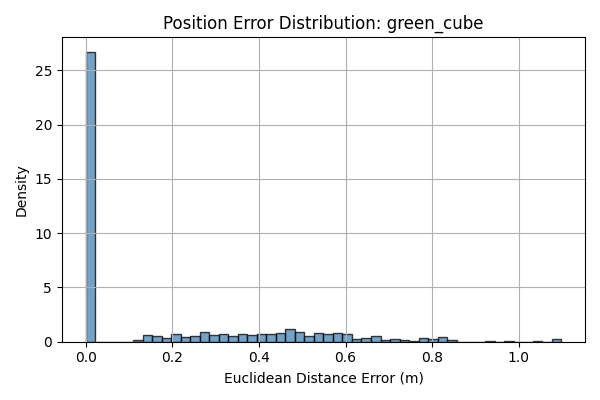
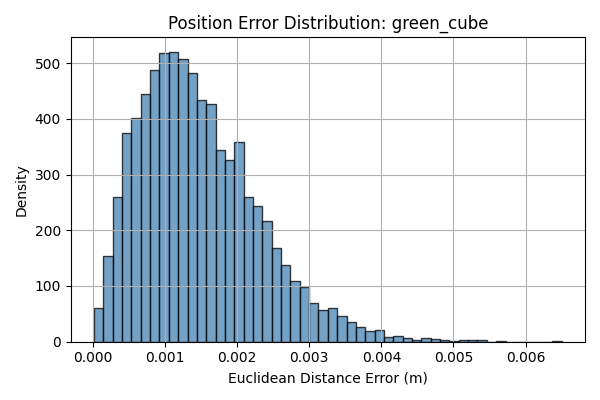
feat: hangarian algorithm in perception evaluation

diff --git a/myCode/yolo_perception/scripts/evaluation.py b/myCode/yolo_perception/scripts/evaluation.py
@@ -11,9 +11,9 @@ pred_dir = Path("/home/s2644572/robosuite/myCode/yolo_perception/data/tabletop/t
 plots_save_path = Path("/home/s2644572/robosuite/myCode/yolo_perception/plots/")
 os.makedirs(plots_save_path, exist_ok=True)
 
-threshold = 0.00125  # meters
+threshold = 0.0025  # meters - the distance threshold for position accuracy
 table_size_m = 0.8  # meters
-norm_threshold = threshold / table_size_m  # normalize threshold
+norm_threshold = threshold / table_size_m  # normalize threshold as the pred and gt are normalized by table size
 print("threshold in meters:", threshold)
 print(f"Normalized threshold: {norm_threshold:.6f} over table size {table_size_m}m")
 
@@ -35,9 +35,9 @@ class_names = [
     "blue_cylinder",
 ]
 
-if_break = False  # Set to True to stop on first misclassification
-
-for ref_file in tqdm(ref_dir.glob("*.txt"), desc="Evaluating predictions"):
+mismatch_files = []
+ref_txt_files = list(ref_dir.glob("*.txt"))
+for ref_file in tqdm(ref_txt_files, desc="Evaluating predictions"):
     pred_file = pred_dir / ref_file.name
     if not pred_file.exists():
         print(f"Missing prediction: {pred_file.name}")
@@ -46,7 +46,20 @@ for ref_file in tqdm(ref_dir.glob("*.txt"), desc="Evaluating predictions"):
     with open(ref_file) as f1, open(pred_file) as f2:
         ref_lines = [line.strip().split() for line in f1.readlines()]
         pred_lines = [line.strip().split() for line in f2.readlines()]
+    
+    # Extract (x, y) positions only
+    ref_xy = np.array([[float(x), float(y)] for _, x, y, _, _ in ref_lines])
+    pred_xy = np.array([[float(x), float(y)] for _, x, y, _, _ in pred_lines])
+    # Compute pairwise Euclidean distances
+    dists = np.linalg.norm(ref_xy[:, None, :] - pred_xy[None, :, :], axis=2)
 
+    # Hungarian algorithm to find best match
+    row_ind, col_ind = linear_sum_assignment(dists)
+
+    # Reorder ref_lines and pred_lines based on Hungarian matching
+    ref_lines = [ref_lines[i] for i in row_ind]
+    pred_lines = [pred_lines[j] for j in col_ind]
+    
     for r_line, p_line in zip(ref_lines, pred_lines):
         class_r, x_r, y_r = int(r_line[0]), float(r_line[1]), float(r_line[2])
         class_p, x_p, y_p = int(p_line[0]), float(p_line[1]), float(p_line[2])
@@ -60,12 +73,13 @@ for ref_file in tqdm(ref_dir.glob("*.txt"), desc="Evaluating predictions"):
             correct_position_pred_per_class[class_r] += dist <= norm_threshold
             position_errors_per_class[class_r].append(dist)
         else:
-            print(f"Misclassification: {ref_file.name} | GT: {class_names[class_r]} | Pred: {class_names[class_p]}")
-            if_break = True
-        if if_break:
-            break
-    if if_break:
-        break
+            mismatch_files.append({
+                "file": ref_file.name,
+                "gt_class": class_names[class_r],
+                "pred_class": class_names[class_p]
+            })
+
+print(f"Processed {len(mismatch_files)} mismatches out of {len(ref_txt_files)} files.")
 # ==== Final Report ====
 print("\n📊 Class-wise Evaluation Report:")
 for i in range(num_classes):
@@ -86,8 +100,8 @@ for i in range(num_classes):
 print("\n📈 Plotting Position Error Distributions:")
 use_density = True  # Set to False if you want raw counts
 for i in range(num_classes):
-    errors = position_errors_per_class[i]
-    if not errors:
+    errors = np.array(position_errors_per_class[i])*table_size_m  # Convert normalized errors back to meters
+    if errors is None or len(errors) == 0:
         print(f"Skipping empty class: {class_names[i]}")
         continue
 
